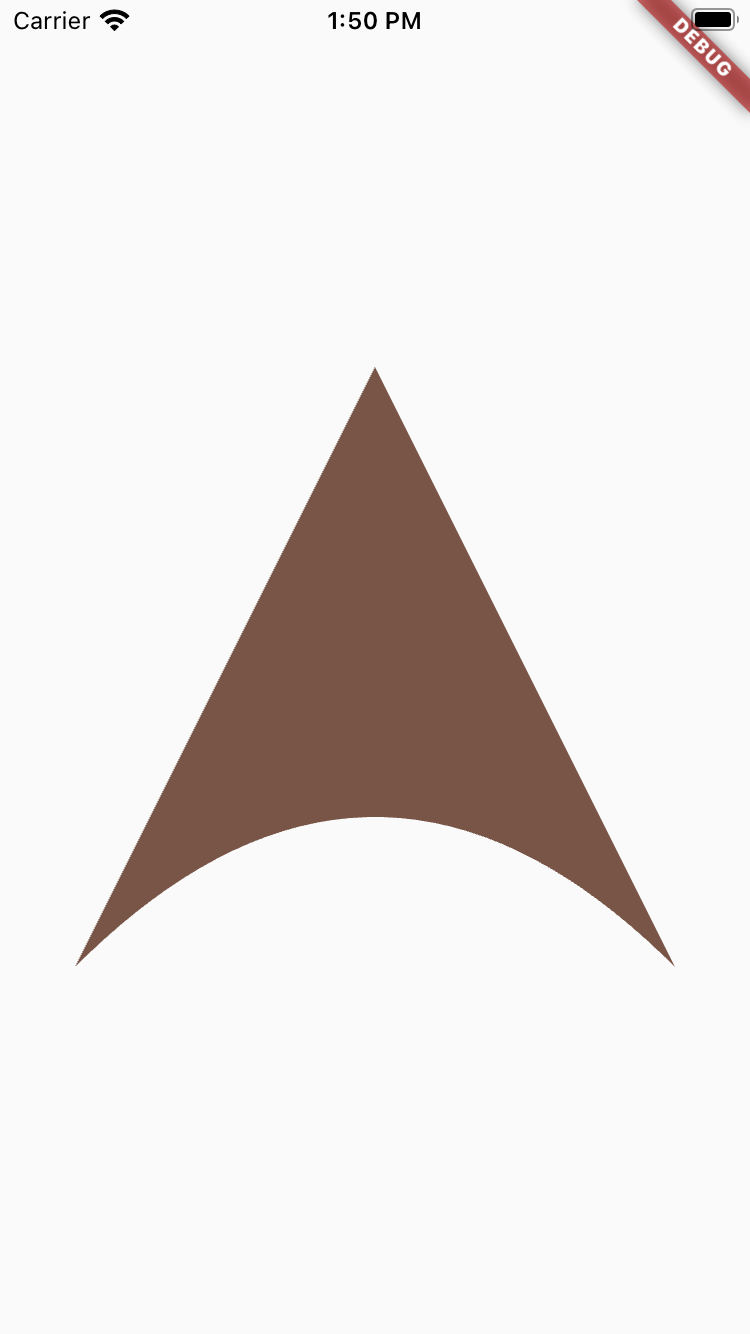
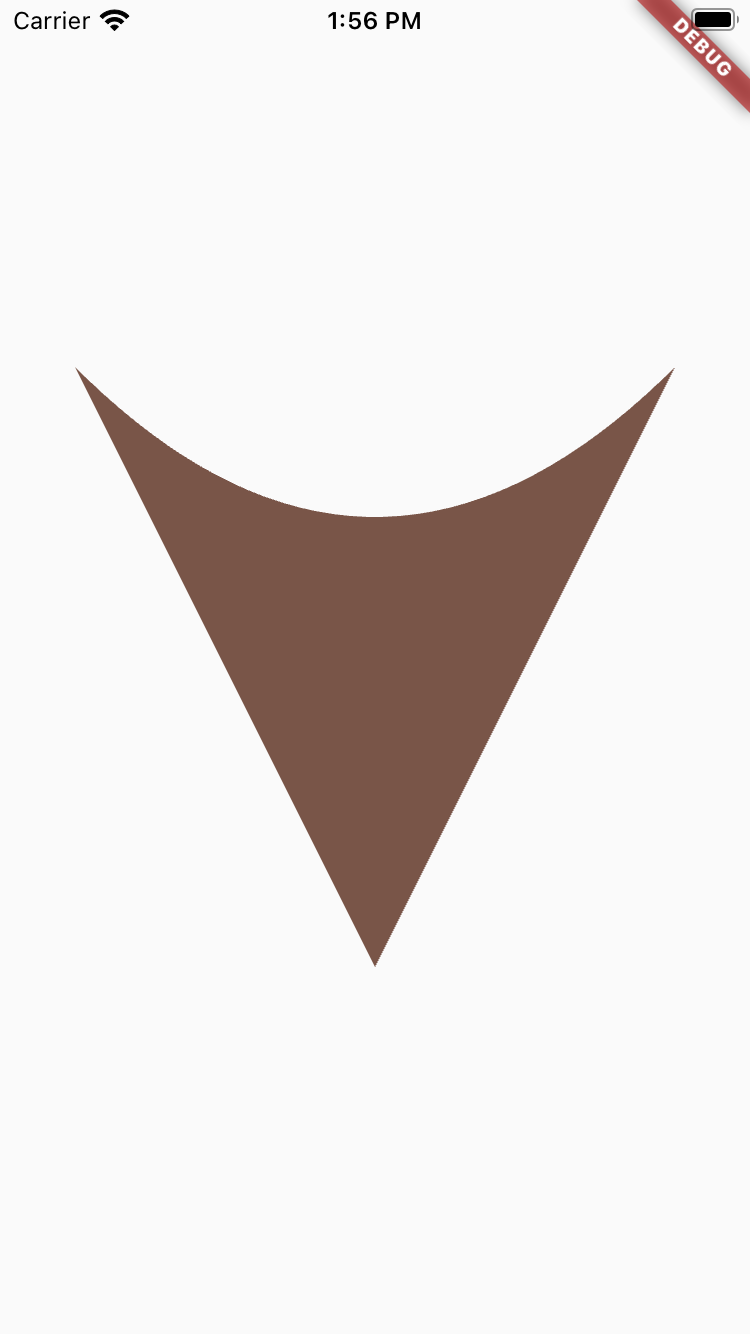
ninth commit

Changed region(s): [[0.092, 0.2766, 0.8893, 0.7376], [0.092, 0.7069, 0.1227, 0.7376]]

diff --git a/lib/screens/clipperclass.dart b/lib/screens/clipperclass.dart
@@ -10,19 +10,19 @@ class MyClipper extends CustomClipper<Path>{
    this method move the point to give point
    quadraticBezierTo()
    This method is used to create a quadratic bezier curve.
+   c= controlpoint
+   p = point
+  syntax  quadraticBezierTo(c,c,p,p);
 
   * */
 
   Path getClip(Size size) {
 
    Path path= Path();
-  path.moveTo(size.width/2, 0);
-  path.lineTo(0,size.height);
-
-  /// c= controlpoint
-   /// p = point
-  /// syntax  quadraticBezierTo(c,c,p,p);
-  path.quadraticBezierTo(size.height/2, size.width/2, size.width, size.height);
+   path.lineTo(0, 0);
+   path.lineTo(size.width/2, size.height);
+    path.lineTo(size.width, 0);
+   path.quadraticBezierTo(size.width/2, size.height/2,0, 0);
 
    path.close();
    return path;
